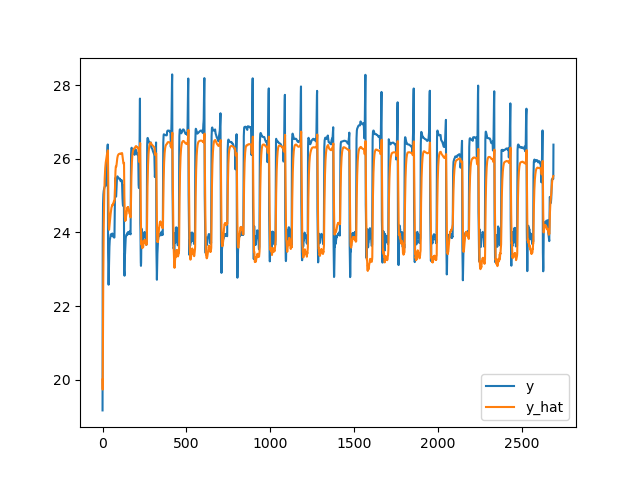
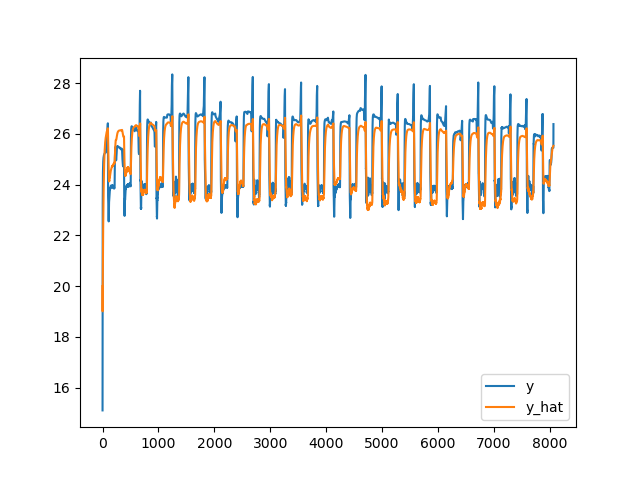
update differentiable simulation implementation using differentiable loops

diff --git a/dynax/simulators/simulator.py b/dynax/simulators/simulator.py
@@ -1,36 +1,44 @@
 import flax.linen as nn
+import jax
 import jax.numpy as jnp
 from ..systems.base_block_state_space import BaseBlockSSM
 
 # TODO:
-# 1. append to list is faster than jnp.append()/vstack()/hstack()
-# 2. the current framework for observation function is one step lagged, which is not consistent with the current framework for state function
+# 1. how to best handle the state update? the state update is always 1 step ahead of the output. This will give a problem when used for MPC as a forward simulator.
 class DifferentiableSimulator(nn.Module):
-    model: BaseBlockSSM
+    model: nn.Module
     t: jnp.ndarray
     dt: float
 
+    @nn.compact
     def __call__(self, x_init, u):
-        # NOTE: append to list is faster than jnp.append()/vstack()/hstack()
-        xsol = []
-        ysol = [] #jnp.array([]).reshape(0, self.model.output_dim)
-        xi = x_init
-        xsol.append(xi)
-        u = u.reshape(-1, self.model.input_dim)
+     
+        def scan_fn(carry, ts):
+            i, xi = carry
+            ui = u[i,:]
 
-        for i in range(len(self.t)):
+            # forward simulation
+            # \dot x(t) = f(x(t), u(t))
+            # y(t) = g(x(t), u(t))
+            xi_rhs, yi = self.model(xi, ui)
             
-            xi_rhs, yi = self.model(xi, u[i,:])
-
             # explicit Euler
-            xi = xi + xi_rhs*self.dt
+            # x(t+1) = x(t) + dt * \dot x(t)
+            x_next = xi + xi_rhs*self.dt
 
-            # save results by appending to list, which is 100x faster than jnp.append() or indexing
-            #xsol = xsol.at[i+1].set(xi)
-            #ysol = ysol.at[i].set(yi)
-            xsol.append(xi)
-            ysol.append(yi)
-        
-        # return list directly is faster than jnp.array()
+            return (i+1, x_next), (xi, yi)
+
+        # module has to be called once before the while loop
+        _, _ = self.model(x_init, jnp.zeros_like(u[0,:]))
+
+        # main simulation loop
+        u = u.reshape(-1, self.model.input_dim)   
+        carry_init = (0, x_init)
+        # self.t[:-1] is used to avoid the last time step
+        (_, x_final), (xsol, ysol) = jax.lax.scan(scan_fn, carry_init, self.t)
+
+        assert xsol.shape[0] == len(self.t)
+        assert ysol.shape[0] == len(self.t)
+
         return xsol, ysol
 

diff --git a/resources/jax/inverse-simulation/test_inverse.py b/resources/jax/inverse-simulation/test_inverse.py
@@ -14,6 +14,7 @@ import json
 
 from dynax.models.RC import Discrete4R3C
 from dynax.models.RC import Continuous4R3C
+from dynax.simulators.simulator import DifferentiableSimulator
 
 # FIXME: 
 #   - the backward propagation is slower than functional programming as previous paper implementation 
@@ -52,46 +53,8 @@ y_train = jnp.array(data_train.values[:,5])
 tsol = jnp.arange(0, len(u_train), 1)*dt
 state = jnp.array([y_train[0], 36., 25.])  # initial state
 
-# inherite from a nn.Module 
-class Simulator(nn.Module):
-    model: nn.Module
-    t: jnp.ndarray
-    dt: float
-
-    @nn.compact
-    def __call__(self, x_init, u):
-     
-        def scan_fn(carry, ts):
-            i, xi = carry
-            ui = u[i,:]
-
-            # forward simulation
-            # \dot x(t) = f(x(t), u(t))
-            # y(t) = g(x(t), u(t))
-            xi_rhs, yi = self.model(xi, ui)
-            
-            # explicit Euler
-            # x(t+1) = x(t) + dt * \dot x(t)
-            x_next = xi + xi_rhs*self.dt
-
-            return (i+1, x_next), (xi, yi)
-
-        # module has to be called once before the while loop
-        _, _ = self.model(x_init, jnp.zeros_like(u[0,:]))
-
-        # main simulation loop
-        u = u.reshape(-1, self.model.input_dim)   
-        carry_init = (0, x_init)
-        # self.t[:-1] is used to avoid the last time step
-        (_, x_final), (xsol, ysol) = jax.lax.scan(scan_fn, carry_init, self.t)
-
-        assert xsol.shape[0] == len(self.t)
-        assert ysol.shape[0] == len(self.t)
-
-        return xsol, ysol
-
 # simulator
-simulator = Simulator(model, tsol, dt)
+simulator = DifferentiableSimulator(model, tsol, dt)
 
 # seed
 key = jax.random.PRNGKey(0)
@@ -191,7 +154,7 @@ with open('zone_coefficients.json', 'w') as f:
 u = jnp.array(data.values[:,:5])
 y_true = jnp.array(data.values[:,5])
 tsol = jnp.arange(0, len(y_true)*dt, dt)
-simulator = Simulator(model, tsol, dt)
+simulator = DifferentiableSimulator(model, tsol, dt)
 _, outputs_pred = simulator.apply(train_state.params, state, u)
 
 plt.figure(figsize=(12, 6))

diff --git a/examples/diff_simulator.py b/examples/diff_simulator.py
@@ -23,10 +23,10 @@ index = range(0, n_samples*60, 60)
 inputs.index = index
 
 # resample to a given time step
-dt = 900
+dt = 300
 inputs_dt = inputs.groupby([inputs.index // dt]).mean()
-u_dt = inputs_dt.values[:,:5]
-y_dt = inputs_dt.values[:,5] 
+u_dt = jnp.array(inputs_dt.values[:,:5])
+y_dt = jnp.array(inputs_dt.values[:,5])
 
 # forward simulation settings
 tsol = jnp.arange(0, len(u_dt)*dt, dt)
